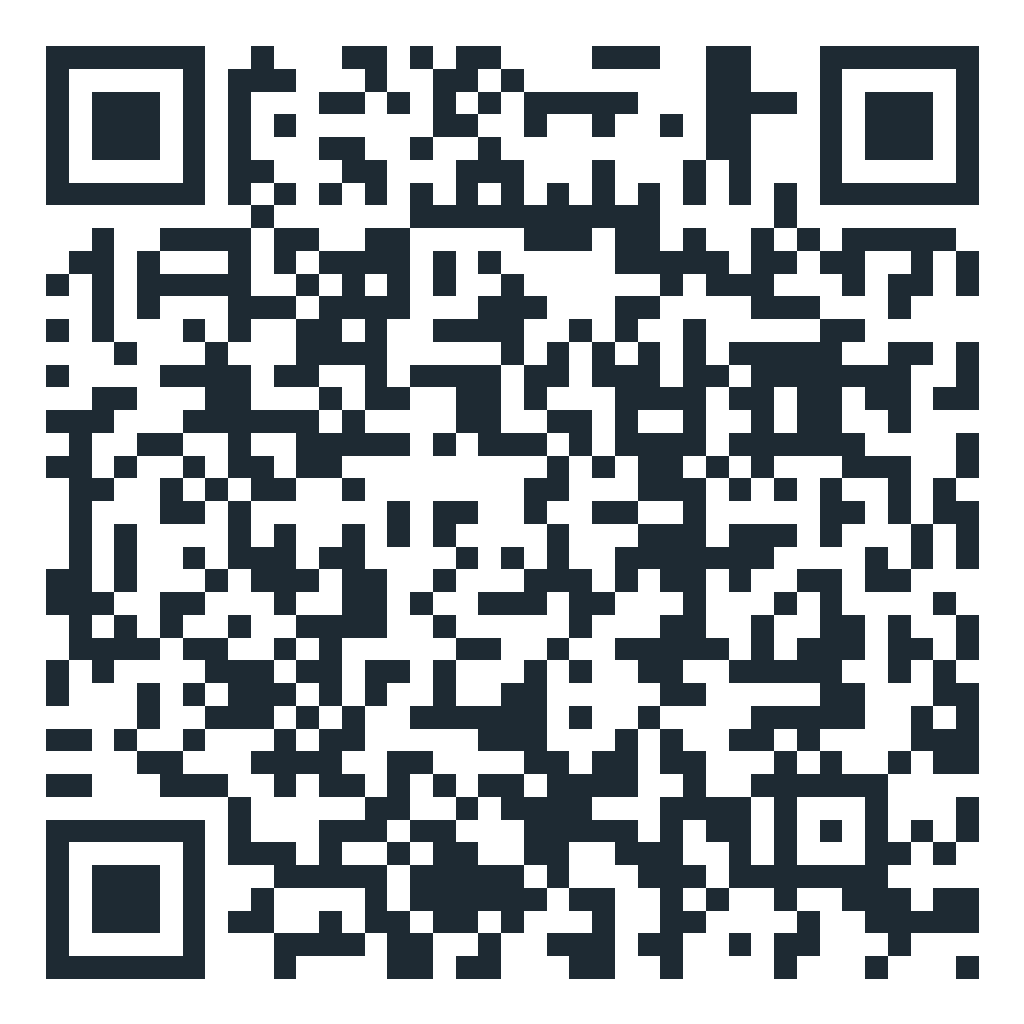
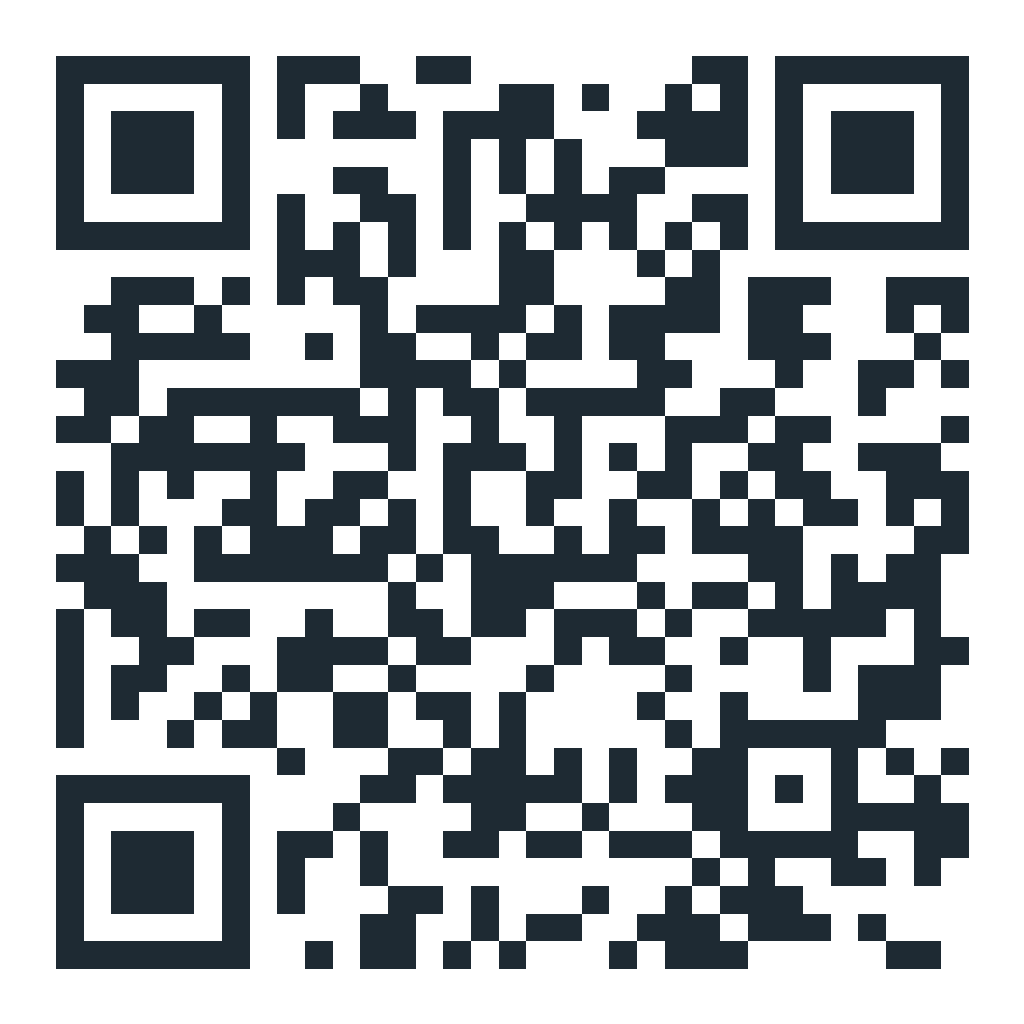
Switch QR + poster to bit.ly/barronsurvey short link
- config.js: surveyUrl now points to the Bitly short link
- Regenerate QR PNG/SVG to encode bit.ly/barronsurvey (simpler, easier scan)
- Re-render A4 poster PDF with new QR and clean Bitly fallback text
- poster.html: update fallback URL to the Bitly link
- README: explain the Bitly redirect benefit (change destination without reprinting)

diff --git a/config.js b/config.js
@@ -16,6 +16,7 @@ window.BARRON_SUPABASE = {
   table: "barron_survey_responses",
 
   // Public link to the live survey (used by the QR code + poster).
-  // Update this if you host the survey somewhere other than GitHub Pages.
-  surveyUrl: "https://taorimanish.github.io/barron-personality-survey/"
+  // This is a Bitly short link that redirects to the live survey, so the
+  // destination can be changed in Bitly later WITHOUT reprinting posters.
+  surveyUrl: "https://bit.ly/barronsurvey"
 };

diff --git a/poster.html b/poster.html
@@ -197,7 +197,7 @@
       var cfg = window.BARRON_SUPABASE || {};
       return cfg.surveyUrl && cfg.surveyUrl.indexOf("YOUR_") === -1
         ? cfg.surveyUrl
-        : "https://taorimanish.github.io/barron-personality-survey/";
+        : "https://bit.ly/barronsurvey";
     }
 
     var qr = null;

diff --git a/README.md b/README.md
@@ -86,8 +86,9 @@ by the coffee machine, hallways, elevators, restroom doors — wherever people p
 2. Click **🖨 Print Poster**.
 3. In the print dialog: set paper to **A4**, enable **Background graphics**, and either print or **Save as PDF**.
 
-> ⚠ The PDF's QR points to `https://taorimanish.github.io/barron-personality-survey/`. If your
-> final survey URL is different, regenerate the PDF/QR (or ask Kiro) so the code matches.
+> ℹ The QR code and poster point to the short link **`https://bit.ly/barronsurvey`**, which
+> redirects to the live survey. Because it's a Bitly link, you can change the destination in
+> Bitly later (e.g. if you move hosting) **without reprinting any posters** — the QR keeps working.
 
 **The QR code points to the link in `config.js` → `surveyUrl`.** If you host the survey somewhere
 other than GitHub Pages, update that value (or use the "Update QR" box on the poster screen to
